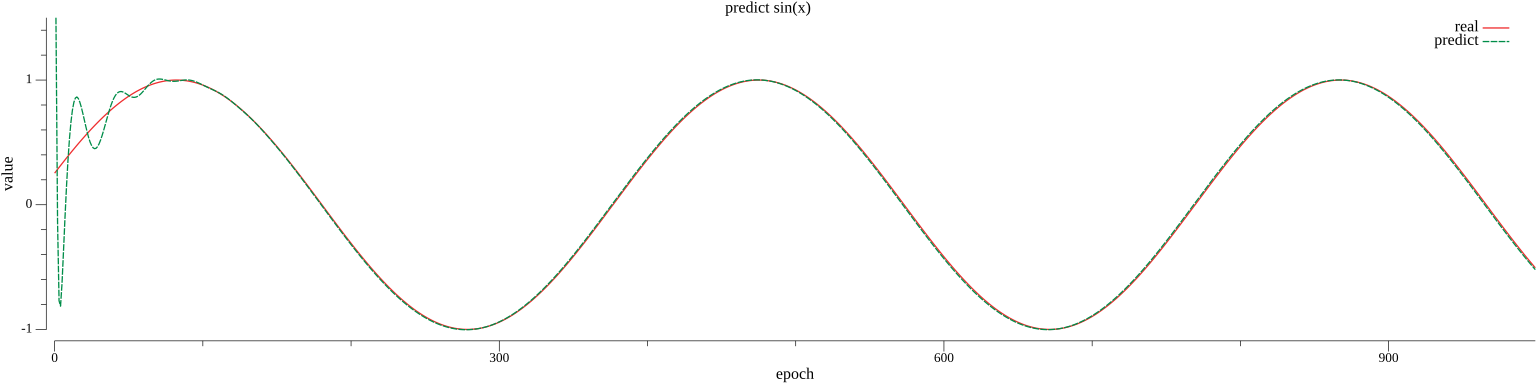
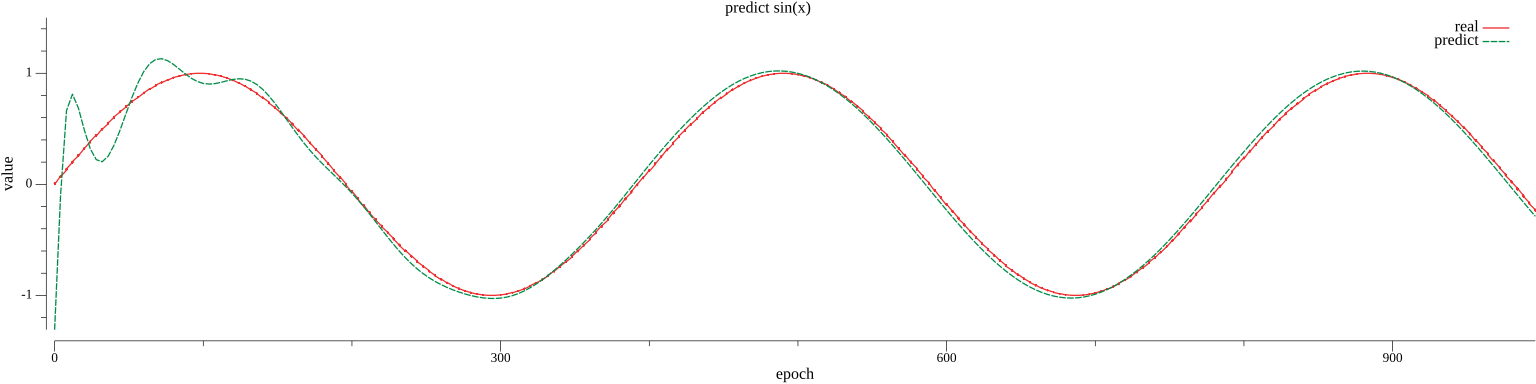
支持并行训练

diff --git a/example/sin_attention/main.go b/example/sin_attention/main.go
@@ -3,6 +3,9 @@ package main
 import (
 	"fmt"
 	"math"
+	"math/rand"
+	rt "runtime"
+	"sync"
 
 	"github.com/lwch/gotorch/loss"
 	"github.com/lwch/gotorch/mmgr"
@@ -21,7 +24,7 @@ const batchSize = 16
 const steps = 32
 const dims = 8
 const unitSize = steps * dims
-const transformerSize = 2
+const transformerSize = 4
 
 var lossFunc = loss.NewMse
 var storage = mmgr.New()
@@ -45,18 +48,36 @@ func main() {
 	p.X.Label.Text = "epoch"
 	p.Y.Label.Text = "value"
 
+	var miniBatchSize = rt.NumCPU()
+	// trainBatchSize = 1
+
+	trainBatch := func(i int) {
+		var wg sync.WaitGroup
+		wg.Add(miniBatchSize)
+		for j := 0; j < miniBatchSize; j++ {
+			go func(idx int) {
+				defer wg.Done()
+				x, y := getBatch(points, idx)
+				m.Train(x, y)
+			}(i + j)
+		}
+		wg.Wait()
+	}
+
 	var real, predict plotter.XYs
-	for i := 0; i < epoch; i++ {
-		x, y := getBatch(points, i+batchSize)
-		loss := m.Train(x, y)
+	for i := 0; i < epoch; i += miniBatchSize {
+		trainBatch(i)
+		m.Apply()
+		x, y := getBatch(points, i)
 		pred := m.Predict(x)
-		y1 := y.Float32Value()[0]
-		y2 := pred[0]
-		real = append(real, plotter.XY{X: float64(i), Y: float64(y1)})
-		predict = append(predict, plotter.XY{X: float64(i), Y: float64(y2)})
+		ys := y.Float32Value()
+		for j := 0; j < len(pred); j++ {
+			real = append(real, plotter.XY{X: float64(i), Y: float64(ys[j])})
+			predict = append(predict, plotter.XY{X: float64(i), Y: float64(pred[j])})
+		}
 		if i%10 == 0 {
-			acc := accuracy(m, x, y)
-			fmt.Printf("Epoch: %d, Loss: %e, Accuracy: %.02f%%\n", i, loss, acc)
+			acc := accuracy(ys, pred)
+			fmt.Printf("Epoch: %d, Loss: %e, Accuracy: %.02f%%\n", i, m.Loss(x, y), acc)
 			// fmt.Println(y.Value())
 			// fmt.Println(pred.Value())
 		}
@@ -92,28 +113,24 @@ func getBatch(points []float32, i int) (*tensor.Tensor, *tensor.Tensor) {
 		}
 		y[batch] = points[(i*batchSize+batch)%len(points)]
 	}
-	// rand.Shuffle(batchSize, func(i, j int) {
-	// 	dx := make([]float32, unitSize)
-	// 	dy := make([]float32, 1)
-	// 	copy(dx, x[i*unitSize:(i+1)*unitSize])
-	// 	copy(dy, y[i*1:(i+1)*1])
-	// 	copy(x[i*unitSize:(i+1)*unitSize], x[j*unitSize:(j+1)*unitSize])
-	// 	copy(y[i*1:(i+1)*1], y[j*1:(j+1)*1])
-	// 	copy(x[j*unitSize:(j+1)*unitSize], dx)
-	// 	copy(y[j*1:(j+1)*1], dy)
-	// })
+	rand.Shuffle(batchSize, func(i, j int) {
+		dx := make([]float32, unitSize)
+		dy := make([]float32, 1)
+		copy(dx, x[i*unitSize:(i+1)*unitSize])
+		copy(dy, y[i*1:(i+1)*1])
+		copy(x[i*unitSize:(i+1)*unitSize], x[j*unitSize:(j+1)*unitSize])
+		copy(y[i*1:(i+1)*1], y[j*1:(j+1)*1])
+		copy(x[j*unitSize:(j+1)*unitSize], dx)
+		copy(y[j*1:(j+1)*1], dy)
+	})
 	return tensor.FromFloat32(storage, x, batchSize, steps, dims),
 		tensor.FromFloat32(storage, y, batchSize, 1)
 }
 
-func accuracy(m *model, x, y *tensor.Tensor) float32 {
-	pred := m.Predict(x)
-	y1Values := y.Float32Value()
-	y2Values := pred
+func accuracy(y, pred []float32) float32 {
 	var correct float32
 	for i := 0; i < batchSize; i++ {
-		diff := 1 - float32(math.Abs(float64(y1Values[i])-
-			float64(y2Values[i])))
+		diff := 1 - float32(math.Abs(float64(pred[i]-y[i])))
 		if diff > 0 {
 			correct += diff
 		}

diff --git a/example/sin_attention/model.go b/example/sin_attention/model.go
@@ -38,13 +38,14 @@ func (m *model) Forward(x *tensor.Tensor) *tensor.Tensor {
 	return y
 }
 
-func (m *model) Train(x, y *tensor.Tensor) float32 {
+func (m *model) Train(x, y *tensor.Tensor) {
 	pred := m.Forward(x)
 	l := lossFunc(pred, y)
 	l.Backward()
-	value := l.Value()
+}
+
+func (m *model) Apply() {
 	m.optimizer.Step(m.params())
-	return float32(value)
 }
 
 func (m *model) Predict(x *tensor.Tensor) []float32 {
